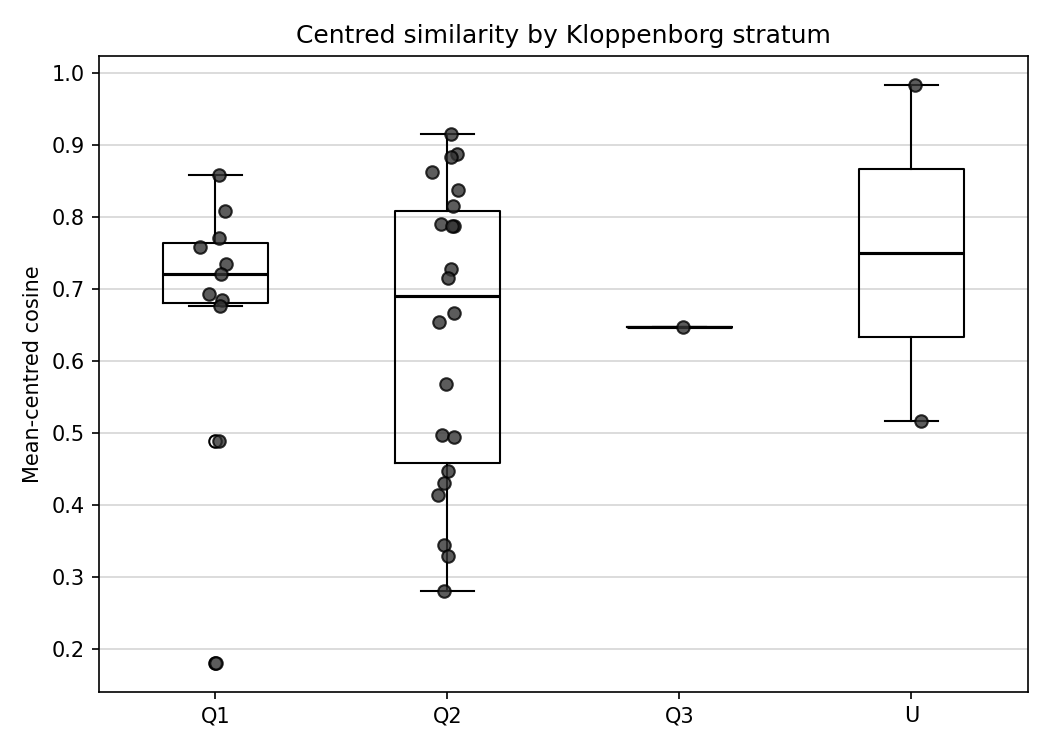
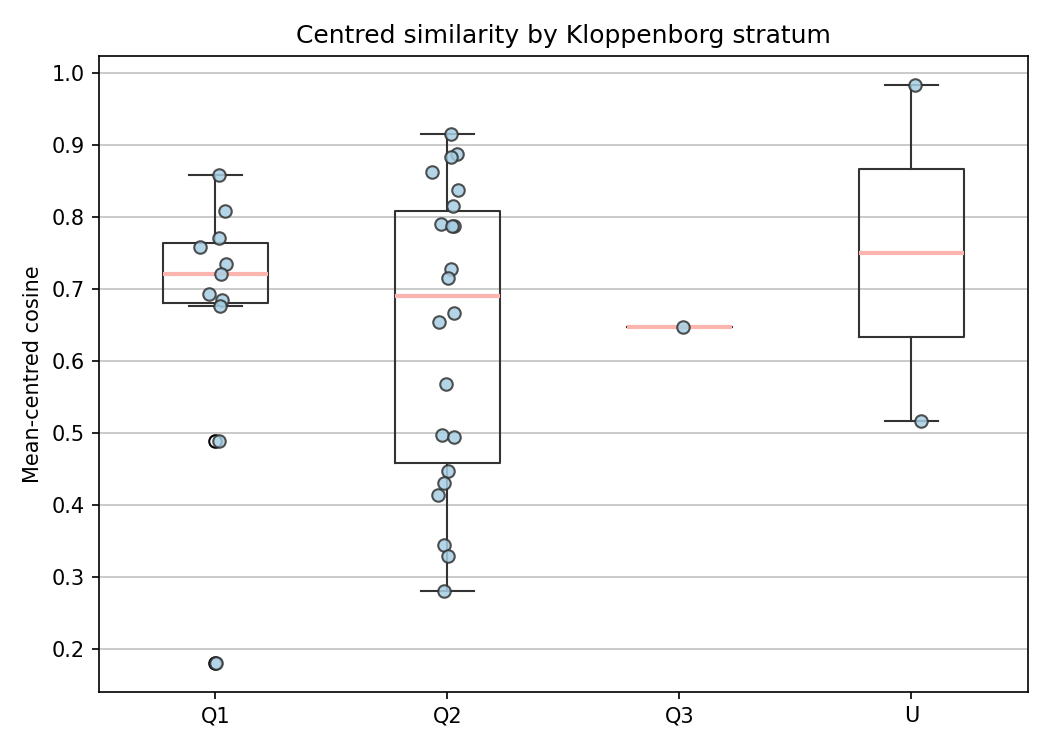
Adjust figure colour palette for legibility

diff --git a/generate_evaluation_figures.py b/generate_evaluation_figures.py
@@ -57,23 +57,26 @@ def main():
     cen = np.array([float(r["centred_cos"]) for r in rows])
     resid = np.array([float(r["residual_sim"]) for r in rows])
 
-    # Greyscale-only palette (no colour): distinctions carried by shade,
-    # linestyle and hatching instead of hue.
-    GRY_DARK = "#333333"
-    GRY_MID = "#777777"
-    GRY_LIGHT = "#BBBBBB"
+    # Pastel, colourblind-conscious palette. Hue is never the sole carrier of
+    # meaning — linestyle/hatching duplicate every distinction (per Cambridge's
+    # accessible-figures guidance), and edges/text stay dark for print contrast.
+    PASTEL_BLUE = "#A6CEE3"      # primary observed data (bars, scatter)
+    PASTEL_CORAL = "#FBB4AE"     # comparison / null / baseline reference
+    PASTEL_GREEN = "#B2DF8A"     # mean / central-tendency marker
+    PASTEL_ORANGE = "#FDBF6F"    # above-mean highlight (fig. 3)
+    DARK = "#333333"             # edges, axes, box outlines
     BLACK = "#000000"
 
     # Figure 1: distribution vs permutation null of the mean
     fig, ax = plt.subplots(figsize=(8, 5))
-    ax.hist(cen, bins=14, density=True, color=GRY_LIGHT, edgecolor=BLACK,
+    ax.hist(cen, bins=14, density=True, color=PASTEL_BLUE, edgecolor=DARK,
             alpha=0.9, label="Observed centred cosine (matched pairs)")
     xs = np.linspace(args.null_mean - 5 * args.null_std, cen.max() + 0.05, 400)
     ax.plot(xs, stats.norm.pdf(xs, args.null_mean, args.null_std),
-            color=BLACK, lw=2, linestyle="-",
+            color=PASTEL_CORAL, lw=2.5, linestyle="-",
             label=f"Permutation null of the mean "
                   f"(μ = {args.null_mean:.4f}, σ = {args.null_std:.4f})")
-    ax.axvline(cen.mean(), color=GRY_DARK, lw=2, linestyle="--",
+    ax.axvline(cen.mean(), color=PASTEL_GREEN, lw=2.5, linestyle="--",
                label=f"Observed mean = {cen.mean():.4f}")
     ax.set_xlabel("Mean-centred cosine similarity")
     ax.set_ylabel("Density")
@@ -85,8 +88,8 @@ def main():
 
     # Figure 2: residual symmetry of the top five (by centred cosine)
     fig, ax = plt.subplots(figsize=(8, 5))
-    ax.barh(range(5), resid[:5], color=GRY_LIGHT, edgecolor=BLACK, alpha=0.9)
-    ax.axvline(SIG_B_MEAN, color=BLACK, lw=2, linestyle="--",
+    ax.barh(range(5), resid[:5], color=PASTEL_BLUE, edgecolor=DARK, alpha=0.9)
+    ax.axvline(SIG_B_MEAN, color=PASTEL_CORAL, lw=2.5, linestyle="--",
                label=f"Triple-tradition residual baseline ({SIG_B_MEAN:.3f})")
     ax.set_yticks(range(5))
     ax.set_yticklabels(labels[:5], fontsize=8)
@@ -98,19 +101,19 @@ def main():
     fig.savefig(fig_dir / "fig2_residual_symmetry.png", dpi=150)
     plt.close(fig)
 
-    # Figure 3: full ranking (above-mean bars solid dark grey with a hatch,
-    # below-mean bars plain light grey — distinguishable without colour)
+    # Figure 3: full ranking (above-mean bars pastel orange with a hatch,
+    # below-mean bars pastel blue — colour and pattern both carry the split)
     fig, ax = plt.subplots(figsize=(8, 9))
-    colors = [GRY_DARK if v >= cen.mean() else GRY_LIGHT for v in cen]
+    colors = [PASTEL_ORANGE if v >= cen.mean() else PASTEL_BLUE for v in cen]
     hatches = ["///" if v >= cen.mean() else None for v in cen]
-    bars = ax.barh(range(len(cen)), cen, color=colors, edgecolor=BLACK, alpha=0.95)
+    bars = ax.barh(range(len(cen)), cen, color=colors, edgecolor=DARK, alpha=0.95)
     for bar, h in zip(bars, hatches):
         if h:
             bar.set_hatch(h)
     ax.set_yticks(range(len(cen)))
     ax.set_yticklabels(labels, fontsize=7)
     ax.invert_yaxis()
-    ax.axvline(cen.mean(), color=BLACK, lw=1.5, linestyle="--",
+    ax.axvline(cen.mean(), color=PASTEL_GREEN, lw=2, linestyle="--",
                label=f"Mean = {cen.mean():.4f}")
     ax.set_xlabel("Mean-centred cosine similarity")
     ax.set_title("All 36 double-tradition pericopes, ranked by centred cosine")
@@ -127,12 +130,12 @@ def main():
     lv = np.array([lengths_map[l] for l in labels])
     r_p, p_p = stats.pearsonr(lv, cen)
     fig, ax = plt.subplots(figsize=(7, 5))
-    ax.scatter(lv, cen, facecolor=GRY_DARK, edgecolor=BLACK, s=60, zorder=3)
+    ax.scatter(lv, cen, facecolor=PASTEL_BLUE, edgecolor=DARK, s=60, zorder=3)
     ax.set_xlabel("Mean pericope length (verses)")
     ax.set_ylabel("Mean-centred cosine")
     ax.set_title(f"Centred similarity vs. passage length "
                  f"(Pearson r = {r_p:.3f}, p = {p_p:.3f})")
-    ax.grid(alpha=0.3, color=GRY_MID)
+    ax.grid(alpha=0.3, color=DARK)
     fig.tight_layout()
     fig.savefig(fig_dir / "fig4_centred_vs_length.png", dpi=150)
     plt.close(fig)
@@ -145,19 +148,19 @@ def main():
     present = [f for f in form_order if f in groups]
     fig, ax = plt.subplots(figsize=(8, 5))
     bp = ax.boxplot([groups[f] for f in present],
-                     boxprops=dict(color=BLACK),
-                     whiskerprops=dict(color=BLACK),
-                     capprops=dict(color=BLACK),
-                     medianprops=dict(color=BLACK, lw=1.5))
+                     boxprops=dict(color=DARK),
+                     whiskerprops=dict(color=DARK),
+                     capprops=dict(color=DARK),
+                     medianprops=dict(color=PASTEL_CORAL, lw=2))
     ax.set_xticks(range(1, len(present) + 1))
     ax.set_xticklabels(present)
     for i, f in enumerate(present, 1):
         xs = np.random.default_rng(0).normal(i, 0.05, size=len(groups[f]))
-        ax.scatter(xs, groups[f], alpha=0.8, facecolor=GRY_DARK,
-                   edgecolor=BLACK, zorder=3)
+        ax.scatter(xs, groups[f], alpha=0.85, facecolor=PASTEL_BLUE,
+                   edgecolor=DARK, zorder=3)
     ax.set_ylabel("Mean-centred cosine")
     ax.set_title("Centred similarity by form-critical category")
-    ax.grid(alpha=0.3, axis="y", color=GRY_MID)
+    ax.grid(alpha=0.3, axis="y", color=DARK)
     fig.tight_layout()
     fig.savefig(fig_dir / "fig5_centred_by_form.png", dpi=150)
     plt.close(fig)
@@ -167,19 +170,19 @@ def main():
     data = [cen[np.array([s == k for s in strata])] for k in ["Q1", "Q2", "Q3", "U"]]
     fig, ax = plt.subplots(figsize=(7, 5))
     ax.boxplot(data,
-               boxprops=dict(color=BLACK),
-               whiskerprops=dict(color=BLACK),
-               capprops=dict(color=BLACK),
-               medianprops=dict(color=BLACK, lw=1.5))
+               boxprops=dict(color=DARK),
+               whiskerprops=dict(color=DARK),
+               capprops=dict(color=DARK),
+               medianprops=dict(color=PASTEL_CORAL, lw=2))
     ax.set_xticks(range(1, 5))
     ax.set_xticklabels(["Q1", "Q2", "Q3", "U"])
     for i, vals in enumerate(data, 1):
         xs = np.random.default_rng(1).normal(i, 0.05, size=len(vals))
-        ax.scatter(xs, vals, alpha=0.8, facecolor=GRY_DARK,
-                   edgecolor=BLACK, zorder=3)
+        ax.scatter(xs, vals, alpha=0.85, facecolor=PASTEL_BLUE,
+                   edgecolor=DARK, zorder=3)
     ax.set_ylabel("Mean-centred cosine")
     ax.set_title("Centred similarity by Kloppenborg stratum")
-    ax.grid(alpha=0.3, axis="y", color=GRY_MID)
+    ax.grid(alpha=0.3, axis="y", color=DARK)
     fig.tight_layout()
     fig.savefig(fig_dir / "fig6_centred_by_stratum.png", dpi=150)
     plt.close(fig)
